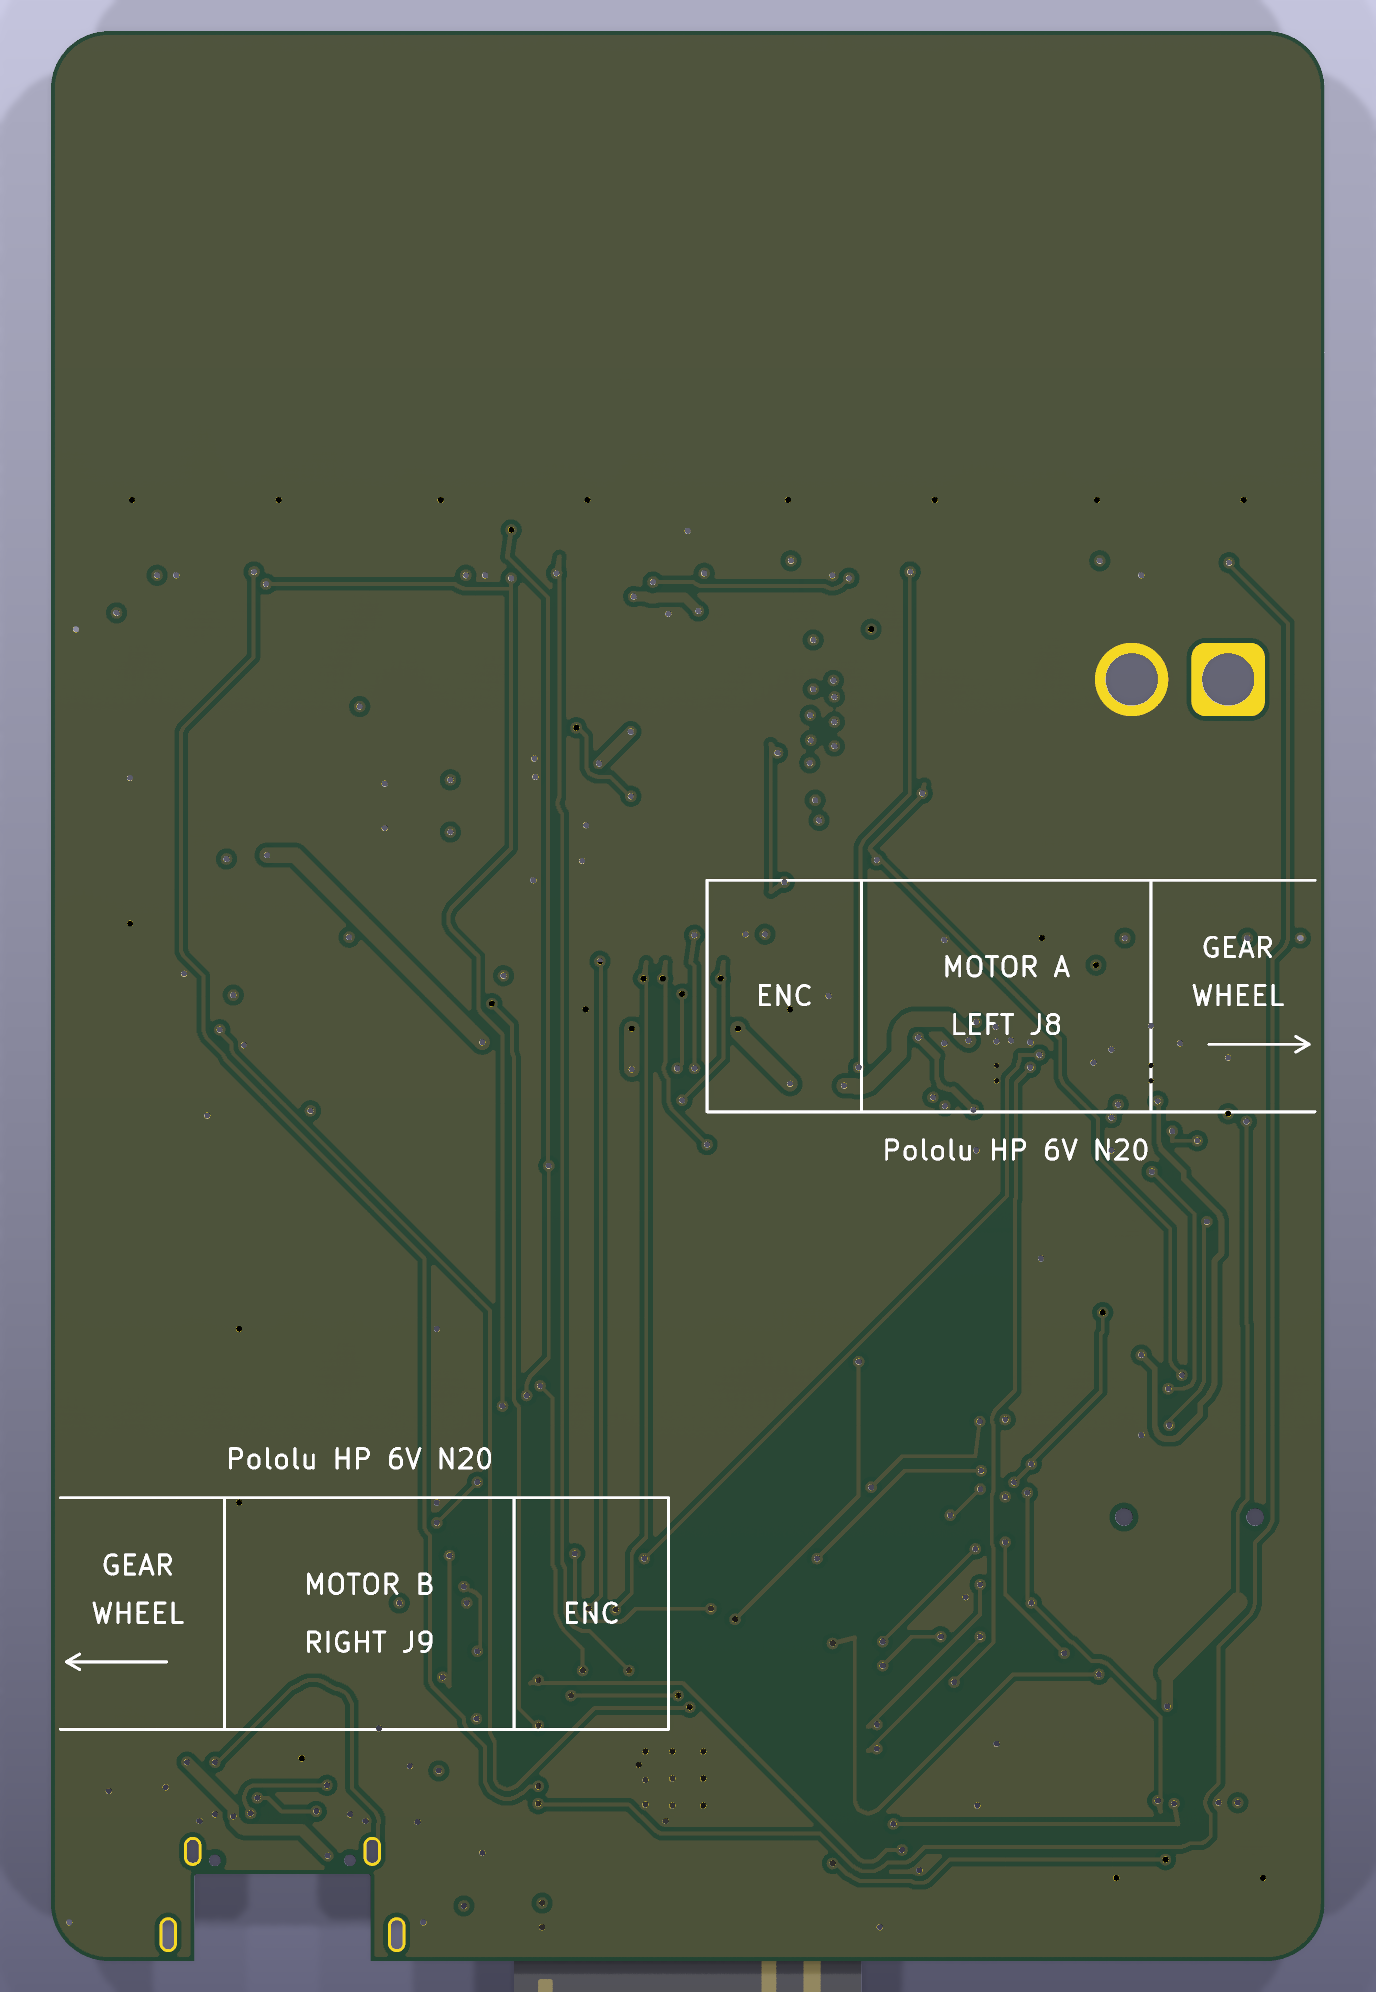
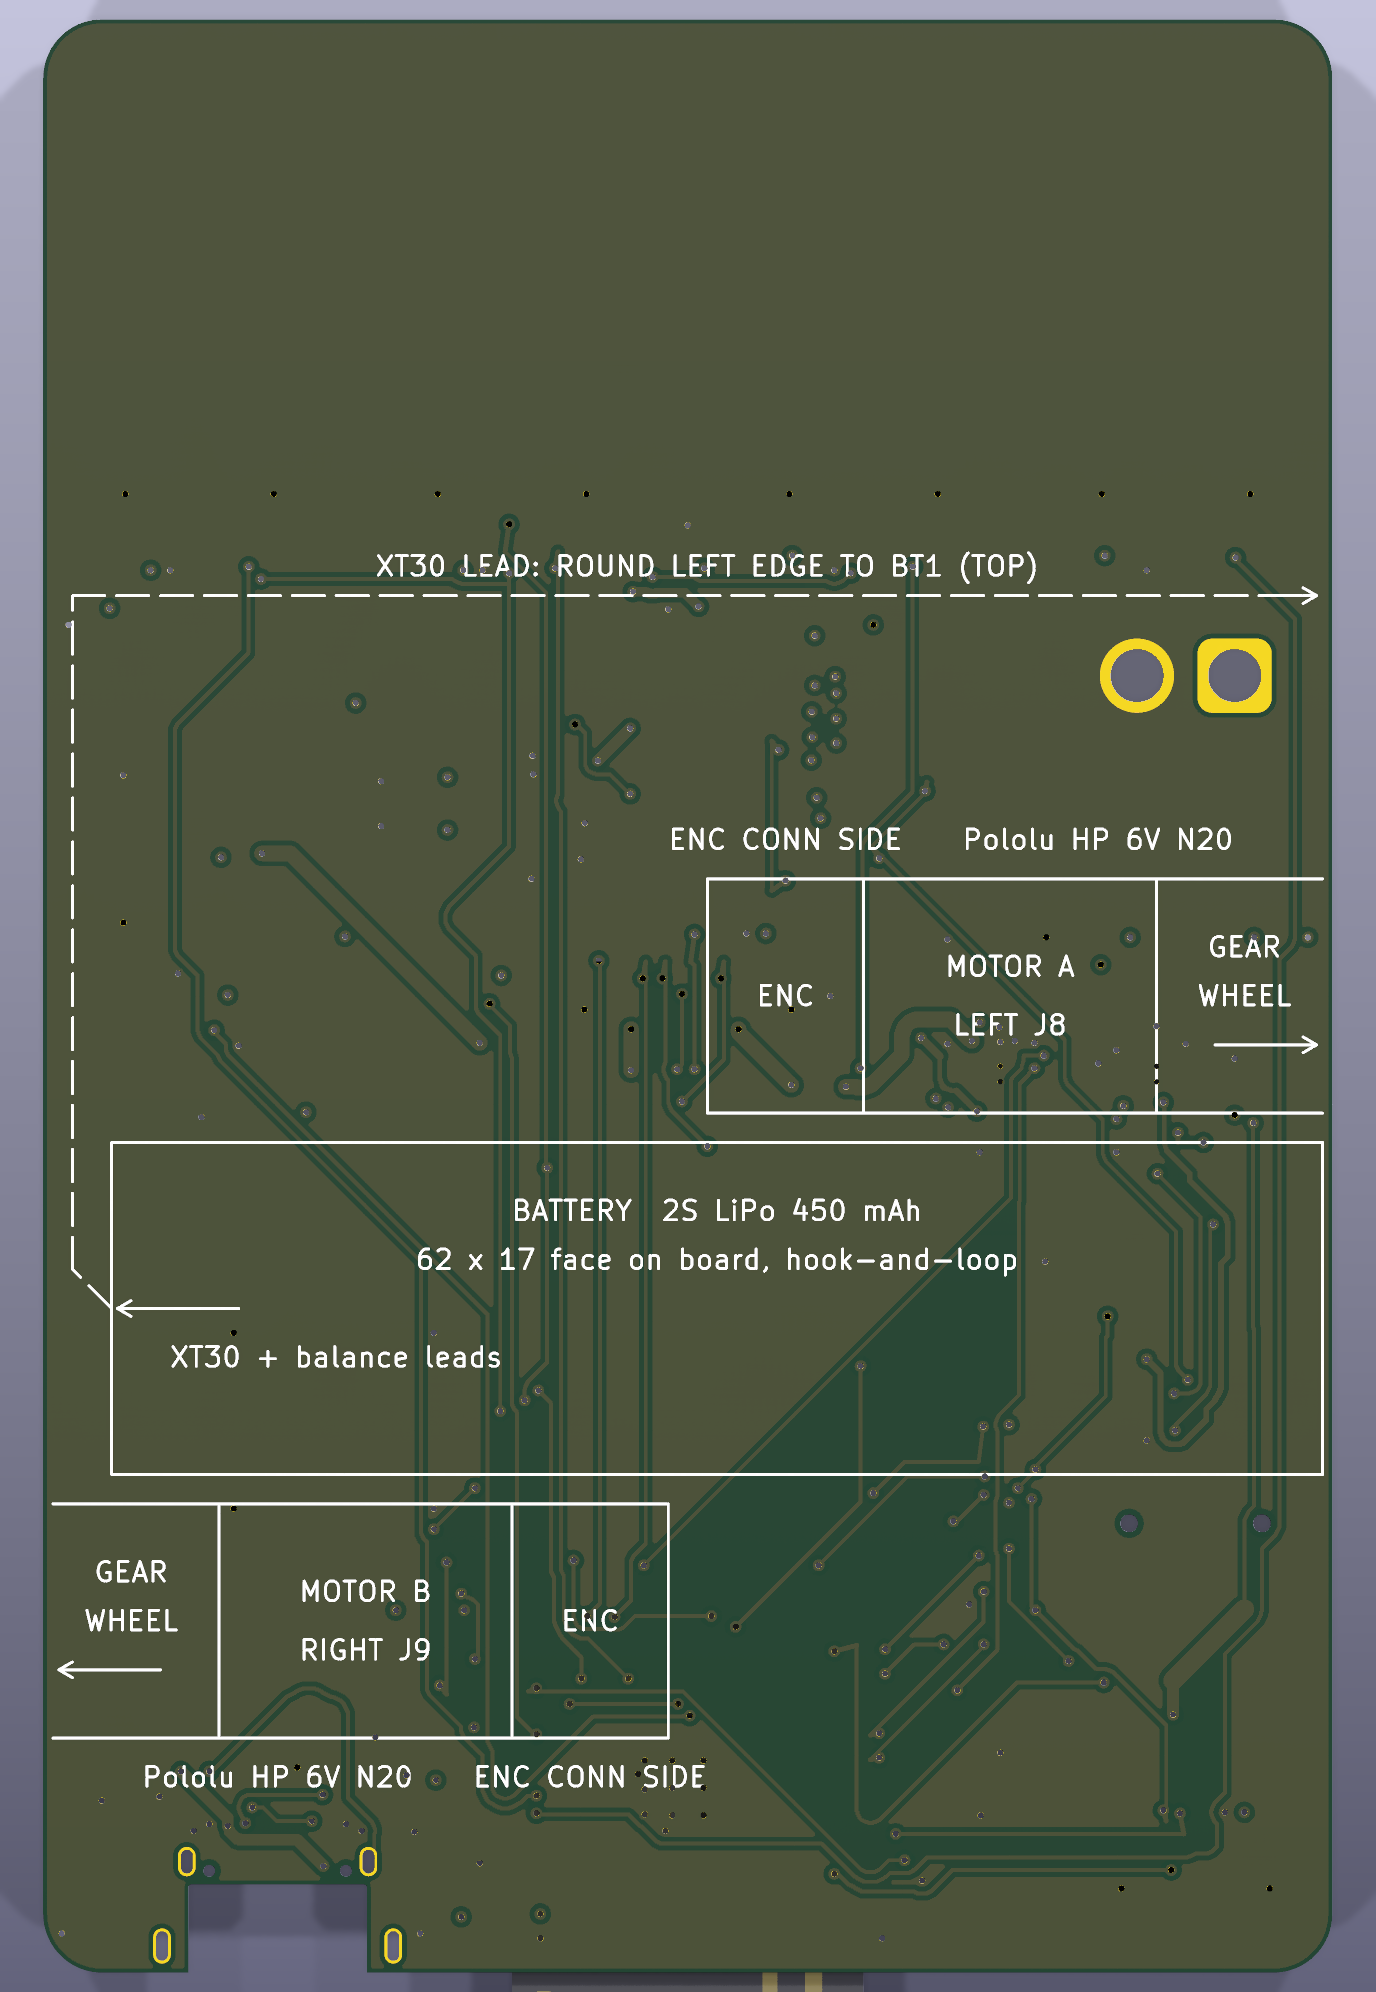
silkscreen: mark the battery bay and its lead route
B.SilkS now shows where the pack goes:
- its 62 x 17 mm outline between the motors, labelled with the part
  and "62 x 17 face on board, hook-and-loop";
- an arrow at the +X end where the XT30 and balance leads leave;
- the lead route as a dashed line forward and across the front strip,
  ending in an arrow at the left edge beside BT1's pins.

Each motor's "Pololu HP 6V N20" label used to sit in the inboard
encoder allowance, which is now inside the battery outline. The labels
move to the outboard allowance, and "ENC CONN SIDE" marks the face the
encoder board stands proud of.

battery_bay.py prints the battery marks, and assembly_marks.py draws the
motor labels in their new place. Run standalone, battery_bay.py moves
the labels on an already-marked board. A full rework.py regeneration
reproduces the board item for item. DRC is 0 violations, 0 unconnected
and 0 parity issues. The aperture audit passes. docs/images/
pcb-3d-bottom.png is re-rendered.

diff --git a/tools/autoroute/battery_bay.py b/tools/autoroute/battery_bay.py
@@ -32,14 +32,21 @@ along x = 64.5 to y = 29.5, cross the front strip and wrap the left edge
 between J6 and BT1 to reach BT1 on top.  That is about 13 cm of lead, more
 than a stock pack lead.  The route is drawn on User.2.
 
+On B.SilkS it prints the pack's outline and what it is, an arrow at the
+end its leads leave from, and the lead route as a dashed line to the left
+edge.  assembly_marks.py puts the motors' part names in their (now
+outboard) encoder allowance, with ENC CONN SIDE over the encoder.
+
 Runs after assembly_marks.py in rework.py.  Standalone, it converts an
-existing board once and checks every drilled pad against the new envelopes:
+existing board once, moving the motor names on a board marked before
+2026-09-24, and checks every drilled pad against the new envelopes:
 
     /usr/bin/python3 tools/autoroute/battery_bay.py [board.kicad_pcb]
 """
 import os, re, sys
 sys.path.insert(0, os.path.dirname(os.path.abspath(__file__)))
 from pcbedit import Pcb, fx, uid
+from assembly_marks import Marks, MOTORS, GEARBOX, MOTOR, ENCODER
 
 # every coordinate below is KiCad's: board frame + (100, 60)
 PACK = (100.5, 117.5, 162.5, 134.5)             # battery body, 62 x 17
@@ -83,6 +90,10 @@ TEXTS = [('User.1', r'BATTERY (bottom)\n40 x 30 x 15', (133, 80),
 # round the left edge between J6 (courtyard to y 88.33) and BT1 (from 90.45)
 LEAD = [(162.5, 126), (164.5, 124), (164.5, 89.5), (100, 89.5)]
 LEAD_TEXT = ('BATTERY LEAD: XT30 around the left edge to BT1', (132, 88))
+
+MARKER = 'BATTERY  2S LiPo 450 mAh'     # present once the silkscreen marks are
+# the motor names' placement-era spot, inside what is now the battery envelope
+OLD_MOTOR_TEXT = {'MOTOR A': (116, 118), 'MOTOR B': (150, 134)}
 
 
 def _items(text):
@@ -191,9 +202,55 @@ def reserve(p):
     return len(edits)
 
 
+def marks(p):
+    """the battery's B.SilkS outline, lead arrow and dashed lead route"""
+    L = 'B.SilkS'
+    m = Marks()
+    m.group('Battery 2S LiPo')
+    x0, y0, x1, y1 = PACK
+    m.rect(L, *PACK)
+    m.text(L, MARKER, (x0 + x1) / 2, 121.0)
+    m.text(L, '62 x 17 face on board, hook-and-loop', (x0 + x1) / 2, 123.5)
+    (lx, ly) = LEAD[0]
+    m.arrow(L, lx - 6.5, ly, lx - 0.3, ly, head=0.8)     # leads leave this end
+    m.text(L, 'XT30 + balance leads', lx - 11.5, ly + 2.5)
+    route = LEAD[:-1] + [(LEAD[-1][0] + 0.8, LEAD[-1][1])]   # silk stays off the edge
+    for a, b in zip(route, route[1:]):
+        m.line(L, *a, *b, dash=True)
+    m.arrow(L, route[-1][0] + 2.0, route[-1][1], *route[-1], head=0.8)
+    m.text(L, 'XT30 LEAD: ROUND LEFT EDGE TO BT1 (TOP)', *LEAD_TEXT[1])
+    p.add_zone(m.sexpr())
+    return len(m.items)
+
+
+def motor_labels(p):
+    """one-off: a board marked before 2026-09-24 has each motor's name in the
+    inboard allowance.  Move it outboard and add ENC CONN SIDE to the group, as
+    assembly_marks.py now draws them."""
+    p.sync()
+    t, new = p.text, ''
+    for name, side, conn, face, d, axle, ty in MOTORS:
+        mo, e = face + d * (GEARBOX + MOTOR), face + d * (GEARBOX + MOTOR + ENCODER)
+        ox, oy = OLD_MOTOR_TEXT[name]
+        old = f'\t(gr_text "Pololu HP 6V N20"\n\t\t(at {fx(ox)} {fx(oy)} 0)\n\t\t(layer "B.SilkS")\n'
+        assert t.count(old) == 1, f'{name}: label not at its placement-era spot'
+        t = t.replace(old, f'\t(gr_text "Pololu HP 6V N20"\n\t\t(at {fx((face + mo) / 2)} {fx(ty)} 0)\n'
+                           '\t\t(layer "B.SilkS")\n')
+        m = Marks()
+        m.group('')
+        m.text('B.SilkS', 'ENC CONN SIDE', (mo + e) / 2, ty)
+        g = t.index(f'\t(group "{name} {side.lower()}"\n')
+        k = t.index('\n\t\t)\n\t)\n', g)          # end of its member list
+        t = t[:k] + f'\n\t\t\t"{m.members[0]}"' + t[k:]
+        new += m.items[0]
+    p.text = t
+    p._split()
+    p.add_zone(new)
+
+
 def battery_bay(p):
     """the whole stage, as rework.py runs it"""
-    return reserve(p)
+    return reserve(p) + marks(p)
 
 
 def check(path):
@@ -226,5 +283,12 @@ if __name__ == '__main__':
         print(f'{path}: battery bay already reserved')
     else:
         print(f'reservations and drawings: {reserve(p)} items edited')
-        p.write()
+    if '(gr_text "ENC CONN SIDE"' not in p.text:
+        motor_labels(p)
+        print('motor names moved to the outboard allowance')
+    if f'(gr_text "{MARKER}"' in p.text:
+        print(f'{path}: battery marks already present')
+    else:
+        print(f'battery silkscreen: {marks(p)} items')
+    p.write()
     sys.exit(0 if check(path) else 1)

diff --git a/tools/autoroute/assembly_marks.py b/tools/autoroute/assembly_marks.py
@@ -21,7 +21,10 @@ User.1/2, which are not fabricated.  These marks go on F.SilkS and B.SilkS:
           wide, split gearbox 9 / motor 15 / encoder 8 mm per Pololu's
           dimension drawing (0J949), gearbox face on the board edge and shaft
           on the wheel axle (y = 110 left, 142 right).  The 4 mm side-connector
-          allowance of each 16 mm reservation is left for the text.
+          allowance of each 16 mm reservation carries the part name and
+          ENC CONN SIDE over the encoder.  Since 2026-09-24 that allowance
+          faces outboard, because the battery lies between the motors
+          (battery_bay.py, which also prints the battery's own marks).
 
 Runs after f1_fuse.py in rework.py.  Standalone, it adds the marks to an
 existing board once:
@@ -48,8 +51,9 @@ BNO_CHIP = (12.7, 12.2555)            # U1 in board coordinates (y up)
 BNO_HOLES = [(2.54, 2.54), (22.86, 2.54), (2.54, 20.32), (22.86, 20.32)]
 
 # motor, side, gearbox face x, direction of the body from it, axle y, text y
-MOTORS = [('MOTOR A', 'LEFT', 'J8', 100.0, 1, 110.0, 118.0),
-          ('MOTOR B', 'RIGHT', 'J9', 166.0, -1, 142.0, 134.0)]
+# (the outboard 4 mm encoder allowance: forward of A, behind B)
+MOTORS = [('MOTOR A', 'LEFT', 'J8', 100.0, 1, 110.0, 102.0),
+          ('MOTOR B', 'RIGHT', 'J9', 166.0, -1, 142.0, 150.0)]
 GEARBOX, MOTOR, ENCODER, WIDTH = 9.0, 15.0, 8.0, 12.0
 EDGE_INSET = 0.5
 
@@ -71,9 +75,9 @@ class Marks:
         self.members = []
         self.groups.append((name, self.members))
 
-    def line(self, layer, x1, y1, x2, y2):
+    def line(self, layer, x1, y1, x2, y2, dash=False):
         self._add(f'\t(gr_line\n\t\t(start {fx(x1)} {fx(y1)})\n\t\t(end {fx(x2)} {fx(y2)})\n'
-                  f'\t\t(stroke\n\t\t\t(width {W})\n\t\t\t(type solid)\n\t\t)\n'
+                  f'\t\t(stroke\n\t\t\t(width {W})\n\t\t\t(type {"dash" if dash else "solid"})\n\t\t)\n'
                   f'\t\t(layer "{layer}")\n\t\t(uuid "@UUID@")\n\t)\n')
 
     def rect(self, layer, x0, y0, x1, y1):
@@ -163,7 +167,8 @@ def motors(m):
         m.text(L, name, (g + mo) / 2, axle - 1.5)
         m.text(L, f'{side} {conn}', (g + mo) / 2, axle + 1.5)
         m.text(L, 'ENC', (mo + e) / 2, axle)
-        m.text(L, 'Pololu HP 6V N20', (face + e) / 2, ty)
+        m.text(L, 'Pololu HP 6V N20', (face + mo) / 2, ty)
+        m.text(L, 'ENC CONN SIDE', (mo + e) / 2, ty)
 
 
 def assembly_marks(p):

diff --git a/tools/autoroute/rework.py b/tools/autoroute/rework.py
@@ -866,7 +866,7 @@ def main():
     # variant lives in the project library, so the placed copy matches it
     p.set_fpid('U1', 'Pixy-M2:ESP32-S3-WROOM-1_AntennaOverhang')
     print('silkscreen assembly marks:', assembly_marks(p), 'items')
-    print('battery bay between the axles:', battery_bay(p), 'items edited')
+    print('battery bay between the axles:', battery_bay(p), 'items')
 
     def rect(x0, y0, x1, y1):
         return f'(xy {x0} {y0}) (xy {x1} {y0}) (xy {x1} {y1}) (xy {x0} {y1})'

diff --git a/layout/README.md b/layout/README.md
@@ -22,7 +22,7 @@ Coordinates in `placement.json` are millimetres from the board's front-left corn
 
 `Dwgs.User` shows top reservations, drive lanes, wheels, axes, aim directions and dimensions. `User.1` shows underside body envelopes. `User.2` shows provisional attachment bands and RF clearance. These bands are reserved space, not final bolt patterns. *(2026-09-23: the ToF mounts, the IMU and both motors are now also printed on F.SilkS / B.SilkS by `tools/autoroute/assembly_marks.py`; see CLAUDE.md, "Assembly marks on the silkscreen".)*
 
-**Battery bay, 2026-09-24** (`tools/autoroute/battery_bay.py`; CLAUDE.md, "Battery between the axles"). The pack now lies across the board between the two motors, with its centre on the rotation centre's Y. The motor envelopes are unchanged in size, but their 4 mm encoder allowance now faces outboard. Pololu's encoder board stands 3–4 mm proud of one face of the gearmotor, so each motor is mounted with that face outboard or toward the floor, never toward the battery. The inboard motor attachment bands and both battery strap bands are deleted. The pack is held on the board with hook-and-loop tape: no strap can pass the drive lanes beside it. Each outboard band moves 4 mm out with its envelope, to Y = 37…40 (left motor) and Y = 92…95 (right motor). The right one stops either side of J1 (X = 28…46.5 and 61.5…66). `User.2` also shows the lead route: from the pack's +X end, forward along X = 64.5, across the front strip at Y = 29.5, then round the left edge between J6 and BT1 to BT1 on top. That is about 13 cm of lead.
+**Battery bay, 2026-09-24** (`tools/autoroute/battery_bay.py`; CLAUDE.md, "Battery between the axles"). The pack now lies across the board between the two motors, with its centre on the rotation centre's Y. The motor envelopes are unchanged in size, but their 4 mm encoder allowance now faces outboard. Pololu's encoder board stands 3–4 mm proud of one face of the gearmotor, so each motor is mounted with that face outboard or toward the floor, never toward the battery. The inboard motor attachment bands and both battery strap bands are deleted. The pack is held on the board with hook-and-loop tape: no strap can pass the drive lanes beside it. Each outboard band moves 4 mm out with its envelope, to Y = 37…40 (left motor) and Y = 92…95 (right motor). The right one stops either side of J1 (X = 28…46.5 and 61.5…66). `User.2` also shows the lead route: from the pack's +X end, forward along X = 64.5, across the front strip at Y = 29.5, then round the left edge between J6 and BT1 to BT1 on top. That is about 13 cm of lead. B.SilkS prints the pack outline, its lead arrow and the route as a dashed line, and `ENC CONN SIDE` marks each motor's outboard face.
 
 Board-level placement keepouts cover top modules and underside bodies. The antenna has a board-level all-layer copper keepout; the footprint also retains its original antenna rule area. The board-level antenna area permits U1 itself to overlap the area, while the footprint's own keepout protects against other footprints.
 

diff --git a/CLAUDE.md b/CLAUDE.md
@@ -2083,7 +2083,8 @@ prints marks for the off-board parts. `rework.py` runs it after `f1_fuse.py`.
   gearbox 9, motor 15 and encoder 8 mm (Pololu drawing 0J949). The gearbox face
   is on the board edge and the shaft is on the wheel axle, y = 110 (left,
   **motor A → J8**) and y = 142 (right, **motor B → J9**). The label
-  sits in the 4 mm side-connector allowance.
+  sits in the 4 mm side-connector allowance. *Since 2026-09-24 that allowance
+  faces outboard; see "Battery between the axles".*
 - **C20 and R15 reference fields moved** 0.6 mm west and 0.45 mm south, clear of
   the IMU outline.
 - **Checks.** DRC: 0 violations, 0 unconnected, 0 parity. The aperture audit
@@ -2142,6 +2143,20 @@ this, and `rework.py` runs it after `assembly_marks.py`.
     1.57 mm from motor B's envelope.
   - `layout/verify_placement.py` cannot load a routed board, so this check
     stands in for it on these envelopes.
+- **Silkscreen (B.SilkS).** The stage also prints these marks:
+  - the pack outline, labelled `BATTERY  2S LiPo 450 mAh` and
+    `62 x 17 face on board, hook-and-loop`;
+  - an arrow at the +X end, labelled `XT30 + balance leads`;
+  - the lead route as a dashed line, ending in an arrow at the left edge
+    beside BT1's pins.
+
+  `assembly_marks.py` moves each motor's `Pololu HP 6V N20` into its now
+  outboard allowance and adds `ENC CONN SIDE` over the encoder. The old spot
+  is inside the battery outline. Standalone, `battery_bay.py` makes that move
+  on an already-marked board. DRC stays at 0 / 0 / 0, and the aperture audit
+  passes. `docs/images/pcb-3d-bottom.png` is re-rendered with
+  `kicad-cli pcb render --side bottom -w 1408 -h 2024 --background opaque
+  --quality high`.
 
 ### What this pass did not touch
 

diff --git a/tools/autoroute/README.md b/tools/autoroute/README.md
@@ -111,9 +111,13 @@ What it does, in order — the order matters:
     the underside battery rule area goes to board x 0.5-66, y 57.5-74.5 (the
     62 x 17 mm pack plus its lead exit), both motor reservations turn their
     4 mm encoder allowance outboard, and User.1 / User.2 are redrawn to match,
-    with the pack's lead route to BT1.  Every edit asserts the placement-era
-    geometry it replaces.  Standalone, it converts an existing board once and
-    checks every drilled pad against the new envelopes and bands;
+    with the pack's lead route to BT1.  On B.SilkS it prints the pack
+    outline, its lead arrow and the route as a dashed line (the motor names
+    and `ENC CONN SIDE` come from `assembly_marks.py`).  Every edit asserts
+    the placement-era geometry it replaces.  Standalone, it converts an
+    existing board once, moving the motor names on a board marked before
+    2026-09-24, and checks every drilled pad against the new envelopes and
+    bands;
 18. adds the F.Cu `GND pour motor region` zone, the two `Motor pin escape` rule
    areas and the `Power pin escape` rule area that `Pixy-M2.kicad_dru` conditions
    on, and the `Dwgs.User` fab note;

diff --git a/BOM.md b/BOM.md
@@ -148,7 +148,8 @@ and still gives about 63 % of the motor's 6 V stall torque. IPROPI now reads
   The listing gives 61.5 × 15.77 × 13.48 mm and the maker 62 × 17 × 14 mm, so
   the bay is drawn at the larger size, 1.5 mm from each motor body. The front
   strip also fits, but it puts the robot's CG about 6 mm ahead of the front
-  axle. See CLAUDE.md, "Battery between the axles".
+  axle. The underside silkscreen shows the outline, the lead end and the
+  lead's route. See CLAUDE.md, "Battery between the axles".
 - **Fixing.** Hook-and-loop tape on the pack's top face. The drive lanes beside
   it leave no path for a strap.
 - **Lead.** The XT30 and balance leads leave the +X end and run forward on the

diff --git a/README.md b/README.md
@@ -61,7 +61,11 @@ The silkscreen prints where each off-board part attaches:
   cable plugs into, and the BNO085 breakout outline centred on the robot's
   rotation centre.
 - **Bottom:** the two Pololu HP 6V gearmotors, with the gearbox face on the
-  board edge and the shaft on the wheel axle.
+  board edge and the shaft on the wheel axle. `ENC CONN SIDE` marks the face
+  their encoder boards stand proud of, which must point outboard. Between the
+  motors is the 2S battery's outline, with an arrow at the end its leads
+  leave from and a dashed line for the lead's route round the left edge to
+  BT1.
 
 ---
 
